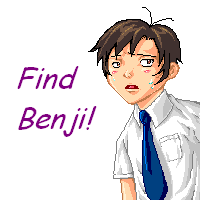
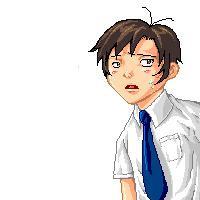
Minor tweaks to GUI

Changed region(s): [[0.09, 0.51, 0.48, 0.69], [0.09, 0.33, 0.39, 0.45]]

diff --git a/src/game.js b/src/game.js
@@ -16,6 +16,7 @@ var sfxLose;
 // Define GUI
 var background;
 var textLoaded;
+var textTitle;
 var btnNext;
 var textHelp;
 var btnGo;
@@ -136,6 +137,12 @@ function showLoadingView(loaded) {
 
 function showTitleView() {
     stage.removeAllChildren();
+    // Title text
+    titleText = new createjs.Text("Find Benji!", "italic 32px Comic Sans MS", "#990099");
+    titleText.lineWidth = stageWidth/2;
+    titleText.x = stageWidth/10;
+    titleText.y = stageHeight/4;
+
     // Next button
     btnNextBg = new createjs.Shape();    
     btnNextBg.graphics.beginFill("Black").drawRect(0, 0, 50, 20);
@@ -154,7 +161,7 @@ function showTitleView() {
 
     // Compile view
     TitleView = new createjs.Container();
-    TitleView.addChild(title, btnNext);
+    TitleView.addChild(title, titleText, btnNext);
     stage.addChild(TitleView);
     stage.update();
 
@@ -286,14 +293,16 @@ function showGameView() {
 
     // Level text
     textLevel = new createjs.Text("Level: "+level, "12px Comic Sans MS");
+    textLevel.textAlign = "center";
     textLevel.lineWidth = stageWidth/2;
-    textLevel.x = 0;
+    textLevel.x = stageWidth/4;
     textLevel.y = 0;
 
     // Clicks text
     textClicks = new createjs.Text("Clicks Left: "+(maxClicks-clicks), "12px Comic Sans MS");
+    textClicks.textAlign = "center";
     textClicks.lineWidth = stageWidth/2;
-    textClicks.x = stageWidth/2;
+    textClicks.x = 3*stageWidth/4;
     textClicks.y = 0;
 
     // Compile view
